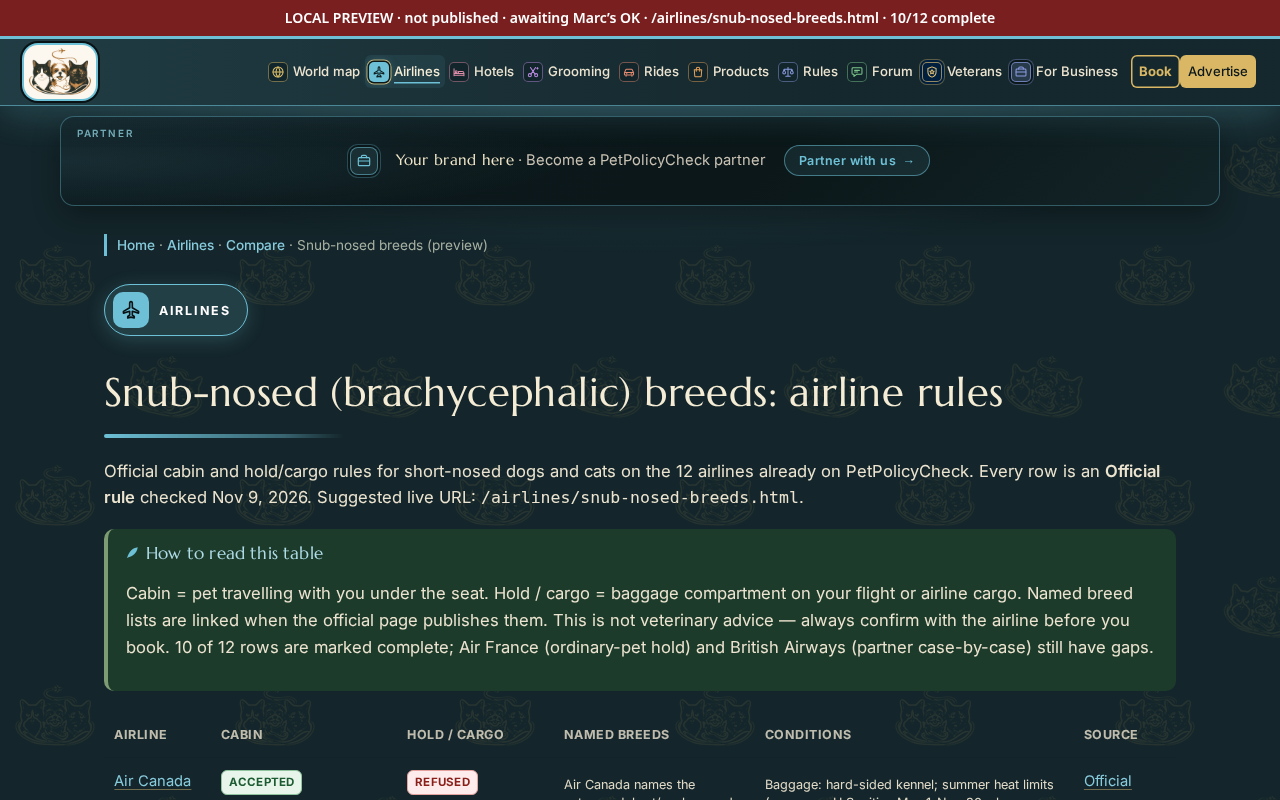
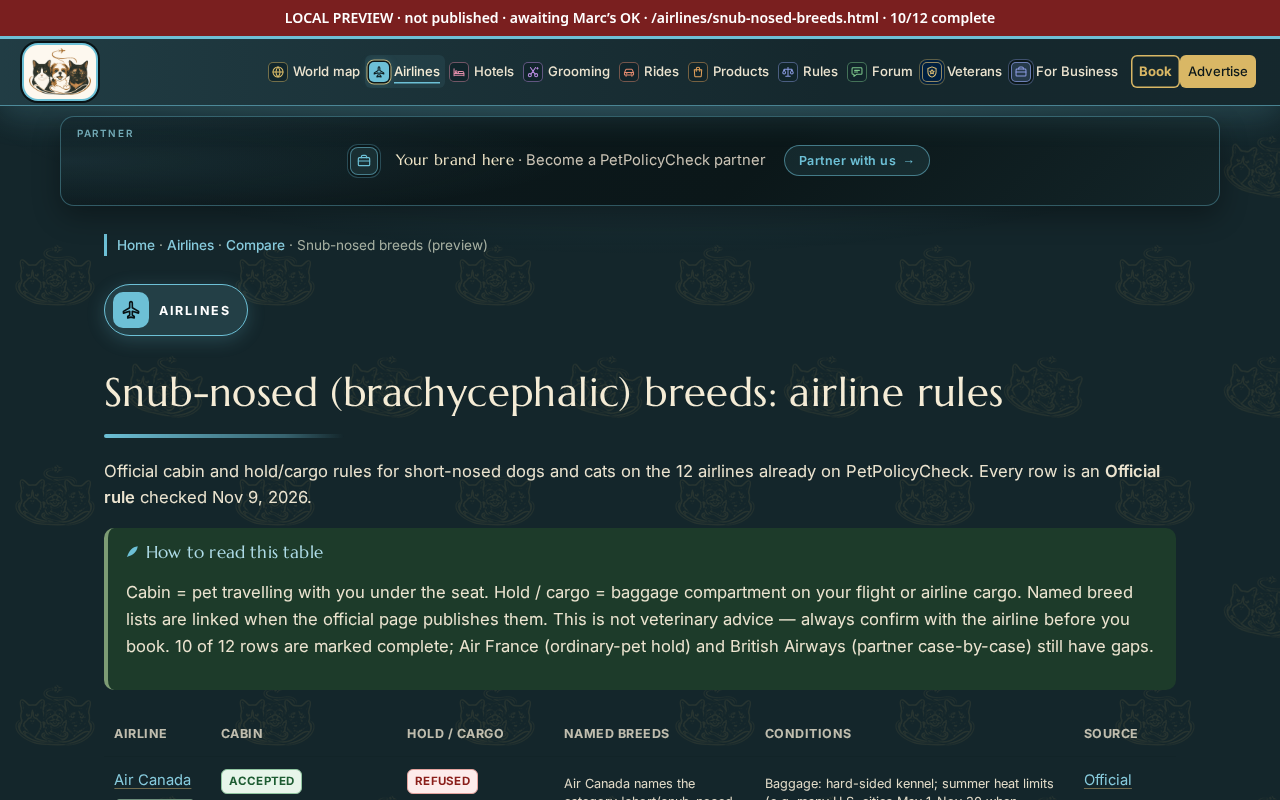
preview(airlines): drop Suggested live URL from brachy lede
Remove the internal path sentence from the intro only. Keep preview bar,
links, callouts, and 10/12 gaps. Local only — no push.

diff --git a/site/airlines/snub-nosed-breeds.html b/site/airlines/snub-nosed-breeds.html
@@ -88,7 +88,7 @@ if(document.readyState==='loading')document.addEventListener('DOMContentLoaded',
 
 <p class="crumbs"><a href="../">Home</a> · <a href="./">Airlines</a> · <a href="./compare/">Compare</a> · <span>Snub-nosed breeds (preview)</span></p>
 <h1>Snub-nosed (brachycephalic) breeds: airline rules</h1>
-<p class="lede">Official cabin and hold/cargo rules for short-nosed dogs and cats on the 12 airlines already on PetPolicyCheck. Every row is an <strong>Official rule</strong> checked Nov 9, 2026. Suggested live URL: <code>/airlines/snub-nosed-breeds.html</code>.</p>
+<p class="lede">Official cabin and hold/cargo rules for short-nosed dogs and cats on the 12 airlines already on PetPolicyCheck. Every row is an <strong>Official rule</strong> checked Nov 9, 2026.</p>
 
 <div class="brachy-intro">
 <h2>How to read this table</h2>

diff --git a/static/airlines/snub-nosed-breeds.html b/static/airlines/snub-nosed-breeds.html
@@ -88,7 +88,7 @@ if(document.readyState==='loading')document.addEventListener('DOMContentLoaded',
 
 <p class="crumbs"><a href="../">Home</a> · <a href="./">Airlines</a> · <a href="./compare/">Compare</a> · <span>Snub-nosed breeds (preview)</span></p>
 <h1>Snub-nosed (brachycephalic) breeds: airline rules</h1>
-<p class="lede">Official cabin and hold/cargo rules for short-nosed dogs and cats on the 12 airlines already on PetPolicyCheck. Every row is an <strong>Official rule</strong> checked Nov 9, 2026. Suggested live URL: <code>/airlines/snub-nosed-breeds.html</code>.</p>
+<p class="lede">Official cabin and hold/cargo rules for short-nosed dogs and cats on the 12 airlines already on PetPolicyCheck. Every row is an <strong>Official rule</strong> checked Nov 9, 2026.</p>
 
 <div class="brachy-intro">
 <h2>How to read this table</h2>
